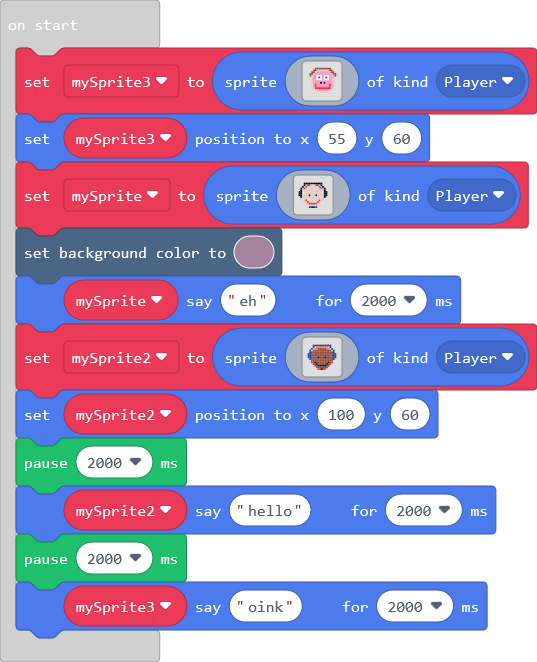
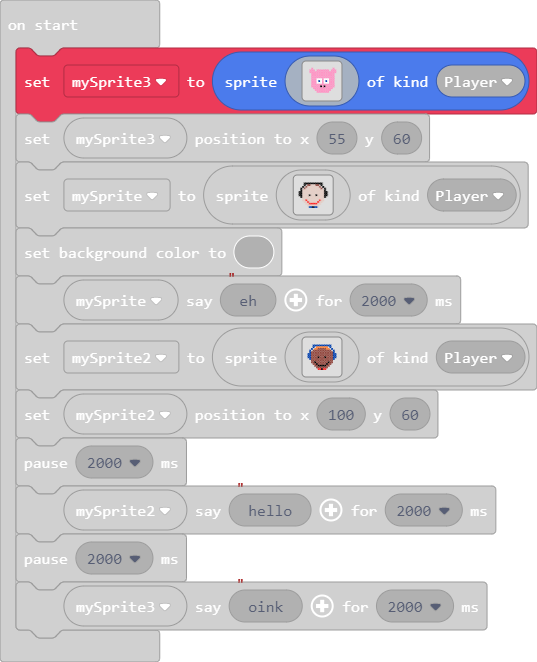
Better pig

diff --git a/main.ts b/main.ts
@@ -1,19 +1,19 @@
 let mySprite3 = sprites.create(img`
 . . . . . . . . . . . . . . . . . . 
-. . . . . e e e e e e e e e . . . . 
-. . . . e e d d d d d d d e e . . . 
-. . . e e d 3 3 3 3 3 3 3 d e e . . 
-. . e e d 3 3 3 3 3 3 3 3 3 d e e . 
-. . e d 3 3 1 1 1 3 1 1 1 3 3 d e . 
-. . . d 3 3 1 8 1 3 1 8 1 3 3 d . . 
-. . . d 3 3 1 1 1 3 1 1 1 3 3 d . . 
-. . . d 3 3 3 3 3 3 3 3 3 3 3 d . . 
-. . . d 3 3 3 3 f 3 f 3 3 3 3 d . . 
-. . . d 3 2 3 3 3 3 3 3 3 2 3 d . . 
-. . . d 3 2 3 3 3 3 3 3 3 2 3 d . . 
-. . . . d 2 2 2 2 2 2 2 2 2 d . . . 
-. . . . . d 3 3 3 3 3 3 3 d . . . . 
-. . . . . . d d d d d d d . . . . . 
+. . . 3 . . . . . . . . . . . 3 . . 
+. . 3 3 3 . 3 3 3 3 3 3 3 . 3 3 3 . 
+. . 3 3 3 3 3 3 3 3 3 3 3 3 3 3 3 . 
+. . . 3 3 3 3 3 3 3 3 3 3 3 3 3 . . 
+. . . 3 3 3 3 3 3 3 3 3 3 3 3 3 . . 
+. . . 3 3 3 3 3 3 3 3 3 3 3 3 3 . . 
+. . . 3 3 3 1 1 1 3 1 1 1 3 3 3 . . 
+. . . 3 3 3 1 8 1 3 1 8 1 3 3 3 . . 
+. . . 3 3 3 1 1 1 3 1 1 1 3 3 3 . . 
+. . . 3 3 3 3 3 3 3 3 3 3 3 3 3 . . 
+. . . 3 3 3 3 3 f 3 f 3 3 3 3 3 . . 
+. . . . 3 3 3 3 3 3 3 3 3 3 3 . . . 
+. . . . . 3 3 3 3 3 3 3 3 3 . . . . 
+. . . . . . 3 3 3 3 3 3 3 . . . . . 
 . . . . . . . . . . . . . . . . . . 
 `, SpriteKind.Player)
 mySprite3.setPosition(55, 60)
